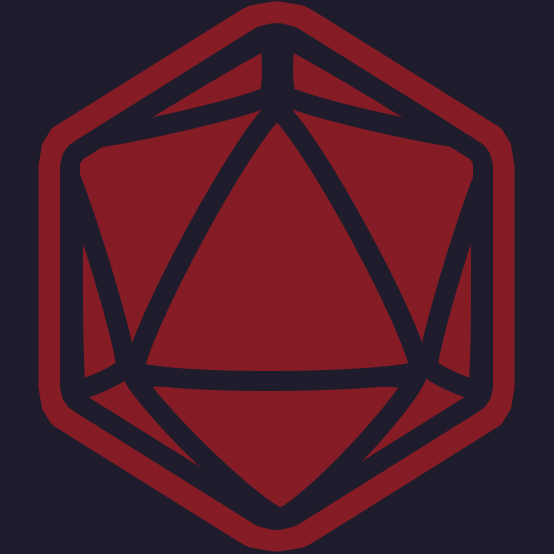
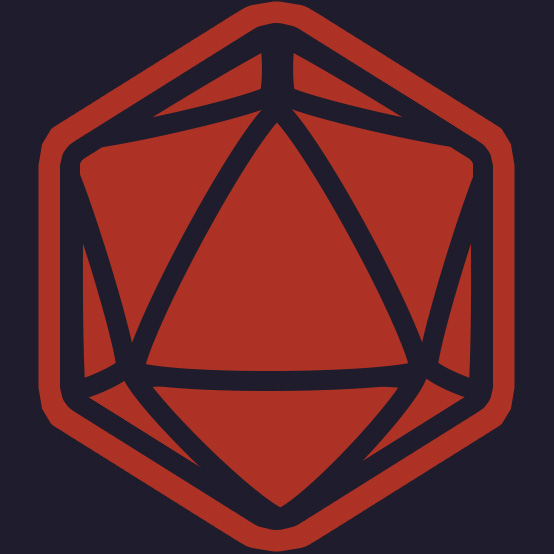
fix(redesign): changed primary and warn color

diff --git a/src/app/_app.component.scss-theme.scss b/src/app/_app.component.scss-theme.scss
@@ -2,231 +2,7 @@
 @use 'sass:map';
 @import '@angular/material/theming';
 @include mat.core();
-
-$my-primaryClassic: (
-  50 : #f0e4e5,
-  100 : #dabbbe,
-  200 : #c28e92,
-  300 : #aa6066,
-  400 : #973e46,
-  500 : #851c25,
-  600 : #7d1921,
-  700 : #72141b,
-  800 : #681116,
-  900 : #55090d,
-  A100 : #ff8a8d,
-  A200 : #ff575c,
-  A400 : #ff242a,
-  A700 : #ff0a12,
-  contrast: (
-    50 : #000000,
-    100 : #000000,
-    200 : #000000,
-    300 : #ffffff,
-    400 : #ffffff,
-    500 : #ffffff,
-    600 : #ffffff,
-    700 : #ffffff,
-    800 : #ffffff,
-    900 : #ffffff,
-    A100 : #000000,
-    A200 : #000000,
-    A400 : #ffffff,
-    A700 : #ffffff,
-  )
-);
-$my-accentClassic: (
-  50 : #eaecf2,
-  100 : #cbcedf,
-  200 : #a8aec9,
-  300 : #858eb3,
-  400 : #6a75a3,
-  500 : #505d93,
-  600 : #49558b,
-  700 : #404b80,
-  800 : #374176,
-  900 : #273064,
-  A100 : #a9b5ff,
-  A200 : #7689ff,
-  A400 : #435dff,
-  A700 : #2a47ff,
-  contrast: (
-    50 : #000000,
-    100 : #000000,
-    200 : #000000,
-    300 : #000000,
-    400 : #ffffff,
-    500 : #ffffff,
-    600 : #ffffff,
-    700 : #ffffff,
-    800 : #ffffff,
-    900 : #ffffff,
-    A100 : #000000,
-    A200 : #000000,
-    A400 : #ffffff,
-    A700 : #ffffff,
-  )
-);
-$my-accentModern: (
-  50 : #e5e2f1,
-  100 : #beb6dd,
-  200 : #9285c7,
-  300 : #6654b0,
-  400 : #46309f,
-  500 : #250b8e,
-  600 : #210a86,
-  700 : #1b087b,
-  800 : #160671,
-  900 : #0d035f,
-  A100 : #9790ff,
-  A200 : #675dff,
-  A400 : #372aff,
-  A700 : #1f10ff,
-  contrast: (
-    50 : #000000,
-    100 : #000000,
-    200 : #000000,
-    300 : #ffffff,
-    400 : #ffffff,
-    500 : #ffffff,
-    600 : #ffffff,
-    700 : #ffffff,
-    800 : #ffffff,
-    900 : #ffffff,
-    A100 : #000000,
-    A200 : #ffffff,
-    A400 : #ffffff,
-    A700 : #ffffff,
-  )
-);
-$my-primaryModern: (
-  50 : #fbfde8,
-  100 : #f6fbc6,
-  200 : #f0f9a0,
-  300 : #eaf67a,
-  400 : #e6f45e,
-  500 : #e1f241,
-  600 : #ddf03b,
-  700 : #d9ee32,
-  800 : #d5ec2a,
-  900 : #cde81c,
-  A100 : #ffffff,
-  A200 : #fcffea,
-  A400 : #f4ffb7,
-  A700 : #f1ff9d,
-  contrast: (
-    50 : #000000,
-    100 : #000000,
-    200 : #000000,
-    300 : #000000,
-    400 : #000000,
-    500 : #000000,
-    600 : #000000,
-    700 : #000000,
-    800 : #000000,
-    900 : #000000,
-    A100 : #000000,
-    A200 : #000000,
-    A400 : #000000,
-    A700 : #000000,
-  )
-);
-$my-warning: (
-  50 : #fee8e7,
-  100 : #fcc7c3,
-  200 : #faa19b,
-  300 : #f77b72,
-  400 : #f65f54,
-  500 : #f44336,
-  600 : #f33d30,
-  700 : #f13429,
-  800 : #ef2c22,
-  900 : #ec1e16,
-  A100 : #ffffff,
-  A200 : #ffe9e9,
-  A400 : #ffb8b6,
-  A700 : #ff9f9c,
-  contrast: (
-    50 : #000000,
-    100 : #000000,
-    200 : #000000,
-    300 : #000000,
-    400 : #000000,
-    500 : #ffffff,
-    600 : #ffffff,
-    700 : #ffffff,
-    800 : #ffffff,
-    900 : #ffffff,
-    A100 : #000000,
-    A200 : #000000,
-    A400 : #000000,
-    A700 : #000000,
-  )
-);
-//$my-warning: (
-//  50 : #ffeceb,
-//  100 : #ffcfcc,
-//  200 : #ffafaa,
-//  300 : #fe8f88,
-//  400 : #fe776f,
-//  500 : #fe5f55,
-//  600 : #fe574e,
-//  700 : #fe4d44,
-//  800 : #fe433b,
-//  900 : #fd322a,
-//  A100 : #ffffff,
-//  A200 : #ffffff,
-//  A400 : #ffd7d5,
-//  A700 : #ffbebc,
-//  contrast: (
-//    50 : #000000,
-//    100 : #000000,
-//    200 : #000000,
-//    300 : #000000,
-//    400 : #000000,
-//    500 : #000000,
-//    600 : #000000,
-//    700 : #000000,
-//    800 : #ffffff,
-//    900 : #ffffff,
-//    A100 : #000000,
-//    A200 : #000000,
-//    A400 : #000000,
-//    A700 : #000000,
-//  )
-//);
-$my-darkpalette: (
-  50 : #e3e3e4,
-  100 : #b8b8bb,
-  200 : #89898d,
-  300 : #5a595f,
-  400 : #36363d,
-  500 : #13121b,
-  600 : #111018,
-  700 : #0e0d14,
-  800 : #0b0a10,
-  900 : #060508,
-  A100 : #4f4fff,
-  A200 : #1c1cff,
-  A400 : #0000e8,
-  A700 : #0000cf,
-  contrast: (
-    50 : #000000,
-    100 : #000000,
-    200 : #000000,
-    300 : #ffffff,
-    400 : #ffffff,
-    500 : #ffffff,
-    600 : #ffffff,
-    700 : #ffffff,
-    800 : #ffffff,
-    900 : #ffffff,
-    A100 : #ffffff,
-    A200 : #ffffff,
-    A400 : #ffffff,
-    A700 : #ffffff,
-  )
-);
+@import './src/assets/scss/palettes';
 
 @function modify-background($theme, $background-color) {
 

diff --git a/src/assets/scss/_palettes.scss b/src/assets/scss/_palettes.scss
@@ -1,23 +1,24 @@
+//was #851c25
 $my-primaryClassic: (
-  50 : #f0e4e5,
-  100 : #dabbbe,
-  200 : #c28e92,
-  300 : #aa6066,
-  400 : #973e46,
-  500 : #851c25,
-  600 : #7d1921,
-  700 : #72141b,
-  800 : #681116,
-  900 : #55090d,
-  A100 : #ff8a8d,
-  A200 : #ff575c,
-  A400 : #BD242A,
-  A700 : #ff0a12,
+  50 : #f5e6e5,
+  100 : #e6c2be,
+  200 : #d69992,
+  300 : #c67066,
+  400 : #b95146,
+  500 : #ad3225,
+  600 : #a62d21,
+  700 : #9c261b,
+  800 : #931f16,
+  900 : #83130d,
+  A100 : #ffb7b4,
+  A200 : #ff8681,
+  A400 : #ff544e,
+  A700 : #ff3c35,
   contrast: (
     50 : #000000,
     100 : #000000,
     200 : #000000,
-    300 : #ffffff,
+    300 : #000000,
     400 : #ffffff,
     500 : #ffffff,
     600 : #ffffff,
@@ -26,7 +27,7 @@ $my-primaryClassic: (
     900 : #ffffff,
     A100 : #000000,
     A200 : #000000,
-    A400 : #ffffff,
+    A400 : #000000,
     A700 : #ffffff,
   )
 );
@@ -127,29 +128,29 @@ $my-primaryModern: (
   )
 );
 $my-warningClassic: (
-  50 : #fee8e7,
-  100 : #fcc7c3,
-  200 : #faa19b,
-  300 : #f77b72,
-  400 : #f65f54,
-  500 : #f44336,
-  600 : #f33d30,
-  700 : #f13429,
-  800 : #ef2c22,
-  900 : #ec1e16,
-  A100 : #ffffff,
-  A200 : #ffe9e9,
-  A400 : #ffb8b6,
-  A700 : #ff9f9c,
+  50 : #faf0e6,
+  100 : #f2dac0,
+  200 : #eac296,
+  300 : #e1aa6c,
+  400 : #da974d,
+  500 : #d4852d,
+  600 : #cf7d28,
+  700 : #c97222,
+  800 : #c3681c,
+  900 : #b95511,
+  A100 : #fff0e8,
+  A200 : #ffd0b5,
+  A400 : #ffb082,
+  A700 : #ffa069,
   contrast: (
     50 : #000000,
     100 : #000000,
     200 : #000000,
     300 : #000000,
     400 : #000000,
-    500 : #ffffff,
-    600 : #ffffff,
-    700 : #ffffff,
+    500 : #000000,
+    600 : #000000,
+    700 : #000000,
     800 : #ffffff,
     900 : #ffffff,
     A100 : #000000,

diff --git a/src/app/layout/sidebar/sidebar.component.html b/src/app/layout/sidebar/sidebar.component.html
@@ -1,6 +1,6 @@
 <div class="sidebar-wrapper">
   <div class="site-info" [routerLink]="'/'" (click)="hideSidebarOnClick ? closeMenu.emit() : null">
-    <img class="logo" src="./assets/images/eneri-logo.png" alt="logo">
+    <img class="logo" src="../../../assets/images/eneri-logo.png" alt="logo">
     <h1>Е<span class="glow">Н</span>Е<span class="glow">РІ</span></h1>
   </div>
 

diff --git a/src/app/layout/header/header.component.html b/src/app/layout/header/header.component.html
@@ -1,6 +1,6 @@
 <mat-toolbar class="wrapper">
   <div class="items-container">
-    <img class="logo" src="./assets/images/eneri-logo.png" alt="logo">
+    <img class="logo" src="../../../assets/images/eneri-logo.png" alt="logo">
 
     <h1>Е<span class="glow">Н</span>Е<span class="glow">РІ</span></h1>
     <span class="spacer"></span>

diff --git a/src/styles.scss b/src/styles.scss
@@ -18,9 +18,13 @@ body {
   font-family: Roboto, "Helvetica Neue", sans-serif;
   background-color: #0e0d14;
   color: white;
+  letter-spacing: .05rem;
 }
 p {
   margin: 0;
+}
+pre, p {
+  line-height: 18px;
 }
 h1, .header {
   font-family: "Ahellya", Roboto, "Helvetica Neue", sans-serif;
